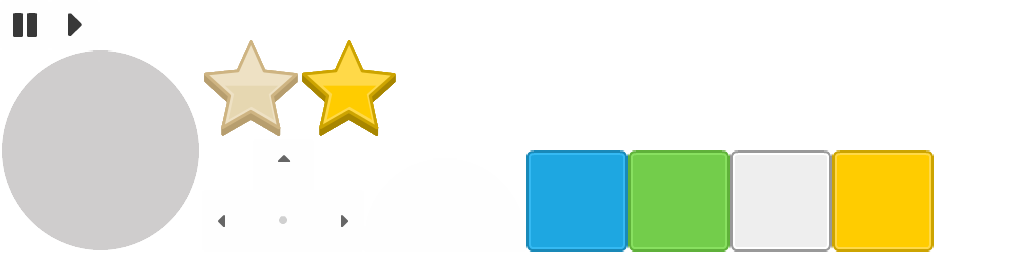
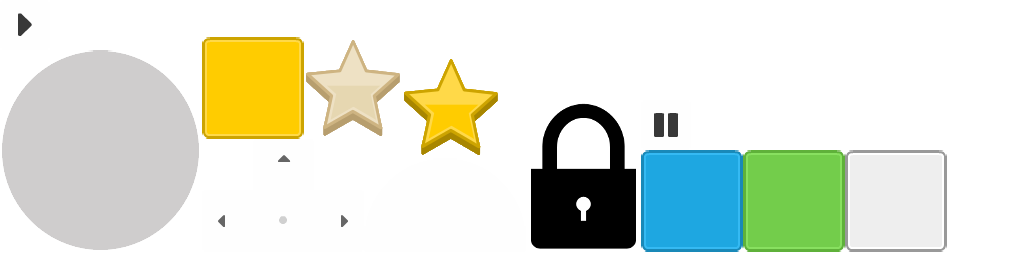
update

Changed region(s): [[0.5, 0.4062, 0.9375, 1.0], [0.1875, 0.125, 0.5, 0.5938], [0.0, 0.0312, 0.0938, 0.1562]]

diff --git a/core/src/games/hebele/football/screens/LevelSelectionScreen.java b/core/src/games/hebele/football/screens/LevelSelectionScreen.java
@@ -32,7 +32,7 @@ public class LevelSelectionScreen implements Screen {
 	
 	@Override
 	public void render(float delta) {
-		Gdx.gl.glClearColor(0, 0, 0, 1);
+		Gdx.gl.glClearColor(178/255f, 213/255f, 238/255f, 1);
 		Gdx.gl.glClear(GL20.GL_COLOR_BUFFER_BIT);
 		
 		camera.update();
@@ -60,8 +60,8 @@ public class LevelSelectionScreen implements Screen {
 		//screenTable.setPosition(Virtual_Width/2, Virtual_Height/2);
 		screenTable.setFillParent(true);
 		
-		float btnWidth=125;
-		float btnHeight=150;
+		float btnWidth=130;
+		float btnHeight=170;
 		
 		screenTable.defaults().size(btnWidth, btnHeight);
 		screenTable.defaults().padBottom(btnHeight/3);
@@ -75,24 +75,26 @@ public class LevelSelectionScreen implements Screen {
 			    3, 1, 2,
 			    3, 0, 0, 
 			    0, 0, 0, 
-			    0, 0, 0, 
+			    0 
 			};
 		
+		int curLevel = 5;
 		
 		int numLevel=dummyLevels.length;
 		int levelPerRow=5;
 		
-		float starSize=btnWidth/3;
+		float starSize=btnWidth/2.5f;
 		
 		for(int i=1; i<numLevel;  i++){
 			
 			if(i%levelPerRow == 1) screenTable.row();
 			
 			int levelPoint = dummyLevels[i];
-			final boolean locked = (levelPoint==0);
+			final boolean locked = (levelPoint==0 && i!=curLevel);
 			
 			String panelType ="panel_green";
 			if(locked) panelType ="panel_grey";
+			if(i == curLevel) panelType ="panel_blue"; 
 			
 			ImageTextButton btn = new ImageTextButton(""+i,skin,panelType);
 			btn.row();
@@ -113,6 +115,10 @@ public class LevelSelectionScreen implements Screen {
 				btn.add(star3).padLeft(-starSize/2).size(starSize);
 				
 				star3.toBack();
+			}
+			
+			if(locked){
+				btn.add(new Image(skin,"lock")).size(113/2, 150/2).center();
 			}
 			
 			btn.addListener(new ClickListener(){
